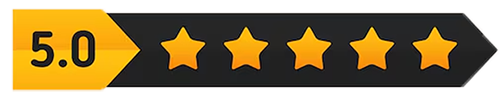
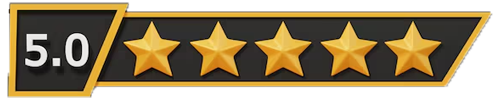
initial commit

diff --git a/style2.css b/style2.css
@@ -8,7 +8,7 @@ body {
 	flex-direction: column;
 	margin: 0;
 	padding-top: 168px;
-	background: #d9c6e2;
+	background: #060606;
 	color: #fff;
 }
 
@@ -43,29 +43,38 @@ body {
 .nav a {
 	color:  #F1F2C4;
 	font-size: 22px;
+	font-family: Verdana, sans-serif;
 	text-decoration: none;
+}
+
+.nav a:hover {
+	color: #BF964B;
 }
 
 .intro {
 	padding: 42px 72px 20px;
 	background: #F1F2C4;
-	color: #BF964B;
+	color: #94651E;
 }
 
 .intro h1 {
 	margin: 0;
 	color: #012326;
-	font-size: 44px;
+	font-size: 52px;
+	font-family:'Courier New', monospace;
+	font-weight: 700;
+    margin-left: 30px;
 }
 
 .intro p {
-	margin: 4px 0 0 68px;
-	font-size: 20px;
+	margin: 4px 0 0 60px;
+	font-size: 25px;
+	font-family: Georgia, serif
 }
 
 .reviews {
 	display: flex;
-	flex: 1;
+	flex: 1 0 auto;
 	min-height: 55vh;
 	flex-direction: column;
 	justify-content: space-between;
@@ -74,27 +83,61 @@ body {
 	color: #F1F2C4;
 }
 
-.grid {
-	display: grid;
-	grid-template-columns: repeat(3, 1fr);
-	grid-column-gap: 48px;
+.cards {
+	display: flex;
+	align-items: center;
+	gap: 32px;
+	min-height: 420px;
 	margin: auto 0;
 }
 
 .card {
+	flex: 1 1 0;
+	min-width: 0;
 	margin: 0;
+	padding: 18px;
+	border: 1px solid rgba(241, 242, 196, 0.45);
+	border-radius: 24px;
+	background: rgba(241, 242, 196, 0.13);
+	box-shadow: 0 12px 30px rgba(0, 0, 0, 0.18);
+	backdrop-filter: blur(12px);
 	text-align: center;
+	transition: flex 300ms ease, transform 300ms ease, opacity 300ms ease, background 300ms ease;
+}
+
+.card > a {
+	display: block;
+	padding: 8px;
+	border: 1px solid rgba(255, 255, 255, 0.65);
+	border-radius: 16px;
+	background: #F1F2C4;
 }
 
 .card img {
 	display: block;
 	width: 100%;
-	max-width: 320px;
 	height: 230px;
 	margin: 0 auto;
+	border-radius: 10px;
 	object-fit: contain;
+	transition: transform 300ms ease;
 }
 
+.card:hover {
+	flex: 1.6 1 0;
+	transform: translateY(-14px);
+	background: rgba(241, 242, 196, 0.24);
+}
+
+.cards:hover .card:not(:hover) {
+	flex: 0.7 1 0;
+	transform: scale(0.9);
+	opacity: 0.75;
+}
+
+.card:hover img {
+	transform: scale(0.94);
+}
 
 .card p {
 	margin: 12px 0 0;

diff --git a/game3.html b/game3.html
@@ -44,11 +44,11 @@
                     <iframe src="https://www.youtube.com/embed/v3_bbIA-W0U" title="How to play Rummikub" allowfullscreen></iframe>
                 </div>
 
-                <p> Each player starts with 14 tiles. The goal is to be the first person to get rid of <br>
-                    all the tiles on your rack. You can put tiles down in groups of the same number in different <br>
-                    colors, or in runs of consecutive numbers in the same color. Once you've started playing tiles, <br>
-                    you can also rearrange the combinations on the table to help you play more tiles. Just make sure all<br>
-                    the combinations are still valid when your turn ends. The first player to use all their tiles wins!
+                <p> Each player starts with 14 tiles. The goal is to be the first person to get rid of all the tiles <br>
+                    on your rack. You can put tiles down in groups of the same number in different colors, or <br>
+                    in runs of consecutive numbers in the same color. Once you've started playing tiles, you <br> 
+                    can also rearrange the combinations on the table to help you play more tiles. Just make sure <br> 
+                    all the combinations are still valid when your turn ends. The first player to use all their tiles wins!
                 </p>
                 
                 <br>

diff --git a/game2.html b/game2.html
@@ -42,9 +42,9 @@
                 </div>
                 <p>The goal is simple: don't draw an Exploding Kitten! On your turn, you can play cards <br>
                     to help yourself, skip your turn, or make things harder for other players. After playing <br>
-                    your cards, you usually draw a card from the deck. If you draw an Exploding Kitten, you're out <br>
-                    of the game unless you have a Defuse card to save yourself. Keep playing and trying to avoid the <br>
-                    kittens until only one player remains!</p>
+                    your cards, you usually draw a card from the deck. If you draw an Exploding Kitten, <br> 
+                    you're out of the game unless you have a Defuse card to save yourself. Keep playing <br> 
+                    and trying to avoid the kittens until only one player remains!</p>
             </div>
         </section>
         <footer class="foot">© 2026 The Game Corner</footer>

diff --git a/style4.css b/style4.css
@@ -43,7 +43,12 @@ body {
 .nav a {
 	color:  #F1F2C4;
 	font-size: 22px;
+	font-family: Verdana, sans-serif;
 	text-decoration: none;
+}
+
+.nav a:hover {
+	color: #BF964B;
 }
 
 .game {
@@ -96,8 +101,8 @@ body {
 	display: block;
 	width: 240px;
 	height: auto;
-	position: relative;
-	left: -40px;
+    margin-right: 87px;
+    margin-top: 5px;
 }
 
 .info p {
@@ -111,12 +116,12 @@ body {
 	margin: 0;
 	margin-left: 100px;
 	font-size: 23px;
-	line-height: 25px;
+	line-height: 29px;
 }
 
 .how {
 	grid-column: 1/3;
-	margin-left: 100px;
+	margin-left: 190px;
 }
 
 .how h2 {
@@ -127,7 +132,7 @@ body {
 	width: 560px;
 	max-width: calc(100% - 100px);
 	aspect-ratio: 16 / 9;
-	margin: 24px 0 0 300px;
+	margin: 24px 0 0 220px;
 }
 
 .video iframe {
@@ -144,6 +149,6 @@ body {
 .foot {
 	margin-top: auto;
 	padding: 18px 16px;
-	font-size: 20px;
+	font-size: 23px;
 	text-align: center;
 }

diff --git a/style.css b/style.css
@@ -45,7 +45,12 @@ body {
 .nav a {
 	color: #F1F2C4;
 	font-size: 22px;
+	font-family: Verdana, sans-serif;
 	text-decoration: none;
+}
+
+.nav a:hover {
+	color: #BF964B;
 }
 
 .home {
@@ -80,9 +85,10 @@ body {
 }
 
 .about h2 {
-	margin: 0 0 18px;
+	margin: 0 0 22px;
 	color: #BF964B;
-	font-size: 44px;
+	font-size: 50px;
+	font-family: "Courier New", monospace;
 }
 
 .details {
@@ -96,12 +102,13 @@ body {
 
 .copy {
 	max-width: 620px;
-	margin-top: 40px;
+	margin-top: 60px;
 }
 
 .copy p {
 	margin: 0 0 26px;
-	font-size: 26px;
+	font-size: 24px;
+	font-family: Arial, sans-serif;
 	color: #F1F2C4;
 }
 

diff --git a/style3.css b/style3.css
@@ -43,7 +43,12 @@ body {
 .nav a {
 	color:  #F1F2C4;
 	font-size: 22px;
+	font-family: Verdana, sans-serif;
 	text-decoration: none;
+}
+
+.nav a:hover {
+	color: #BF964B;
 }
 
 .game {
@@ -98,6 +103,7 @@ body {
 	height: auto;
 }
 
+
 .info p {
 	grid-column: 1 / -1;
 	margin: 0 0 16px;
@@ -114,7 +120,7 @@ body {
 
 .how {
 	grid-column: 1/3;
-	margin-left: 100px;
+	margin-left: 180px;
 }
 
 .how h2 {
@@ -125,7 +131,7 @@ body {
 	width: 560px;
 	max-width: calc(100% - 100px);
 	aspect-ratio: 16 / 9;
-	margin: 24px 0 0 200px;
+	margin: 24px 0 0 220px;
 }
 
 .video iframe {

diff --git a/style5.css b/style5.css
@@ -43,7 +43,12 @@ body {
 .nav a {
 	color:  #F1F2C4;
 	font-size: 22px;
+	font-family: Verdana, sans-serif;
 	text-decoration: none;
+}
+
+.nav a:hover {
+	color: #BF964B;
 }
 
 .game {
@@ -114,7 +119,7 @@ body {
 
 .how {
 	grid-column: 1/3;
-	margin-left: 100px;
+	margin-left: 150px;
 }
 
 .how h2 {
@@ -125,7 +130,7 @@ body {
 	width: 560px;
 	max-width: calc(100% - 100px);
 	aspect-ratio: 16 / 9;
-	margin: 24px 0 0 300px;
+	margin: 24px 0 0 220px;
 }
 
 .video iframe {

diff --git a/review.html b/review.html
@@ -23,7 +23,7 @@
            </section>
 
            <section class="reviews">
-               <div class="grid">
+               <div class="cards">
                    <div class="card">
                        <a href="game1.html"><img src="img/monopoly.png" alt="Monopoly game"></a>
                        <p>MONOPOLY</p>
